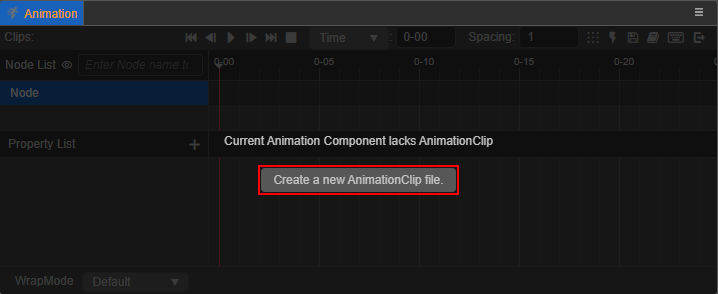
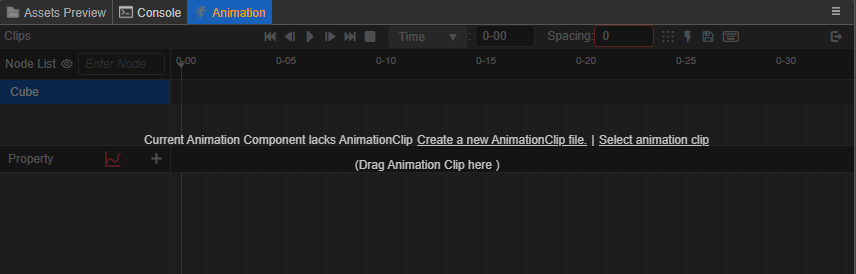
修复一些审核问题 增加： [Feature] Support drag or select animation clips directly to the animation editor for editing

diff --git a/zh/animation/marionette/animation-graph-layer.md b/zh/animation/marionette/animation-graph-layer.md
@@ -19,7 +19,7 @@
 | 属性 | 说明 |
 | :-- | :-- |
 | **Mask** | 动画遮罩，用于指定对应的 [动画遮罩资源](animation-mask.md) |
-| **Weight** | 层级权重，用于指定当前层级在和其他层级进行混合时的权重，取值范围为 [0, 1] |
+| **Weight** | 层级权重，用于指定当前层级在和 **先前层级** 混合时的权重，取值范围为 [0, 1] |
 
 ### 动画遮罩
 
@@ -70,8 +70,8 @@
 
 引出到 **空状态** 状态的过渡，就相当于源头动画的动画效果在不断衰减，直到过渡完成，相当于当前层级被禁用。
 
-如在下图的示例中，当 **Empty** 仅在触发器 **trigger** 被触发后才会过渡到 **run_shoot** 状态，而在 **Empty** 状态下，该层级不会影响到前面层级的动画效果。
+如在下图的示例中，当 **Empty** 仅在触发器 **trigger** 被触发后才会过渡到 **RunShoot** 状态，而在 **Empty** 状态下，该层级不会影响到前面层级的动画效果。
 
-![layer](animation-graph/empty-state.png)
+![layer](animation-layer/empty-state.png)
 
-![layer](animation-graph/transit-empty-state.png)
+![duration](animation-layer/transit-empty-state.png)

diff --git a/zh/animation/animation-create.md b/zh/animation/animation-create.md
@@ -14,6 +14,10 @@
 
 ![mount clip](./animation-create/mount-clip.png)
 
+如果已有 **动画剪辑（Animation Clip）**，即使该节点无动画组件或无任何动画剪辑，也可以通过拖拽 Animation Clip 到 Animation 窗口上，引擎会自动创建 **Animation** 组件并
+
+![drag and drop](animation-create/drag-clip.gif)
+
 以上简单介绍了如何在 **动画编辑器** 中创建动画组件和动画剪辑，更多关于动画组件的创建和属性说明请参考 [动画组件参考](./animation-comp.md)。更多创建动画剪辑的方法请参考文末部分的内容。
 
 然后继续点击 **进入动画编辑模式** 即可开始 [编辑动画剪辑](edit-animation-clip.md)。新建的空的动画剪辑在动画编辑器中显示如下：

diff --git a/zh/animation/marionette/animation-mask.md b/zh/animation/marionette/animation-mask.md
@@ -24,7 +24,7 @@
 
 在一切开始前，需要确定选择骨骼遮罩影响的所有骨骼。
 
-在 **属性检查器** 上，点击 ![import](animation-mask/import.png) 按钮，在弹出的预制体选择对话框中，我们选择骨骼层次所在的预制体。一般情况下，他就是目标模型所在模型文件（FBX、glTF）中导入的预制体，且通常只有一个。
+在 **属性检查器** 上，点击 ![import](animation-mask/import.png) 按钮，在弹出的预制体选择对话框中，我们选择骨骼层次所在的预制体。一般情况下，我们选择目标模型所在模型文件（FBX、glTF）中导入的预制体，且通常只有一个。
 
 ![import mask](animation-mask/import-skeleton.png)
 
